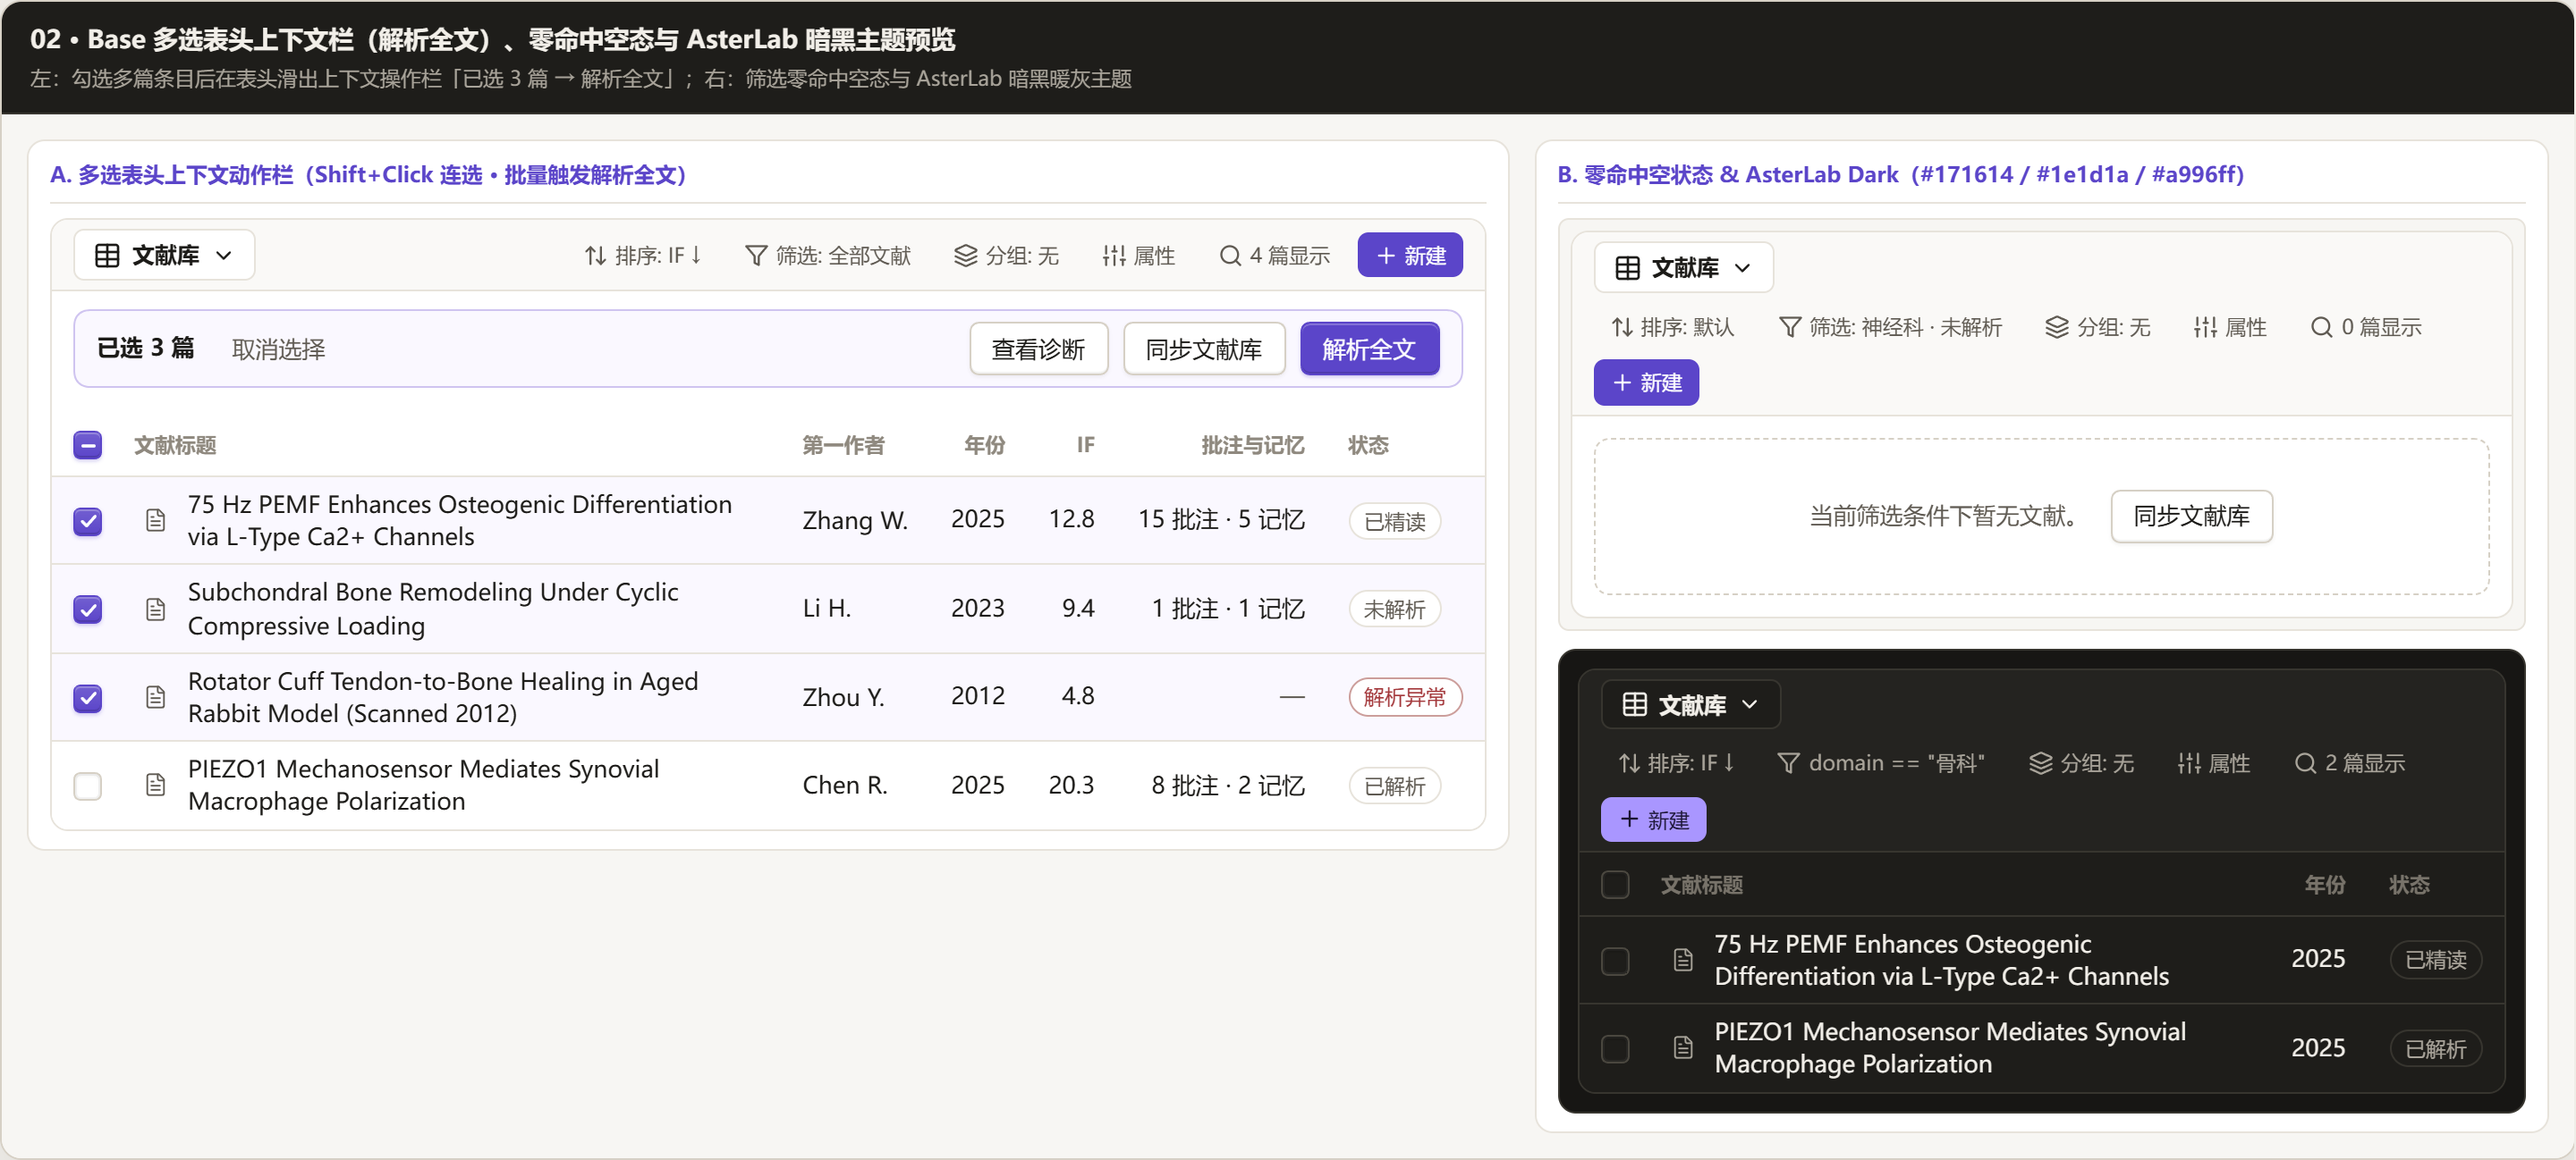
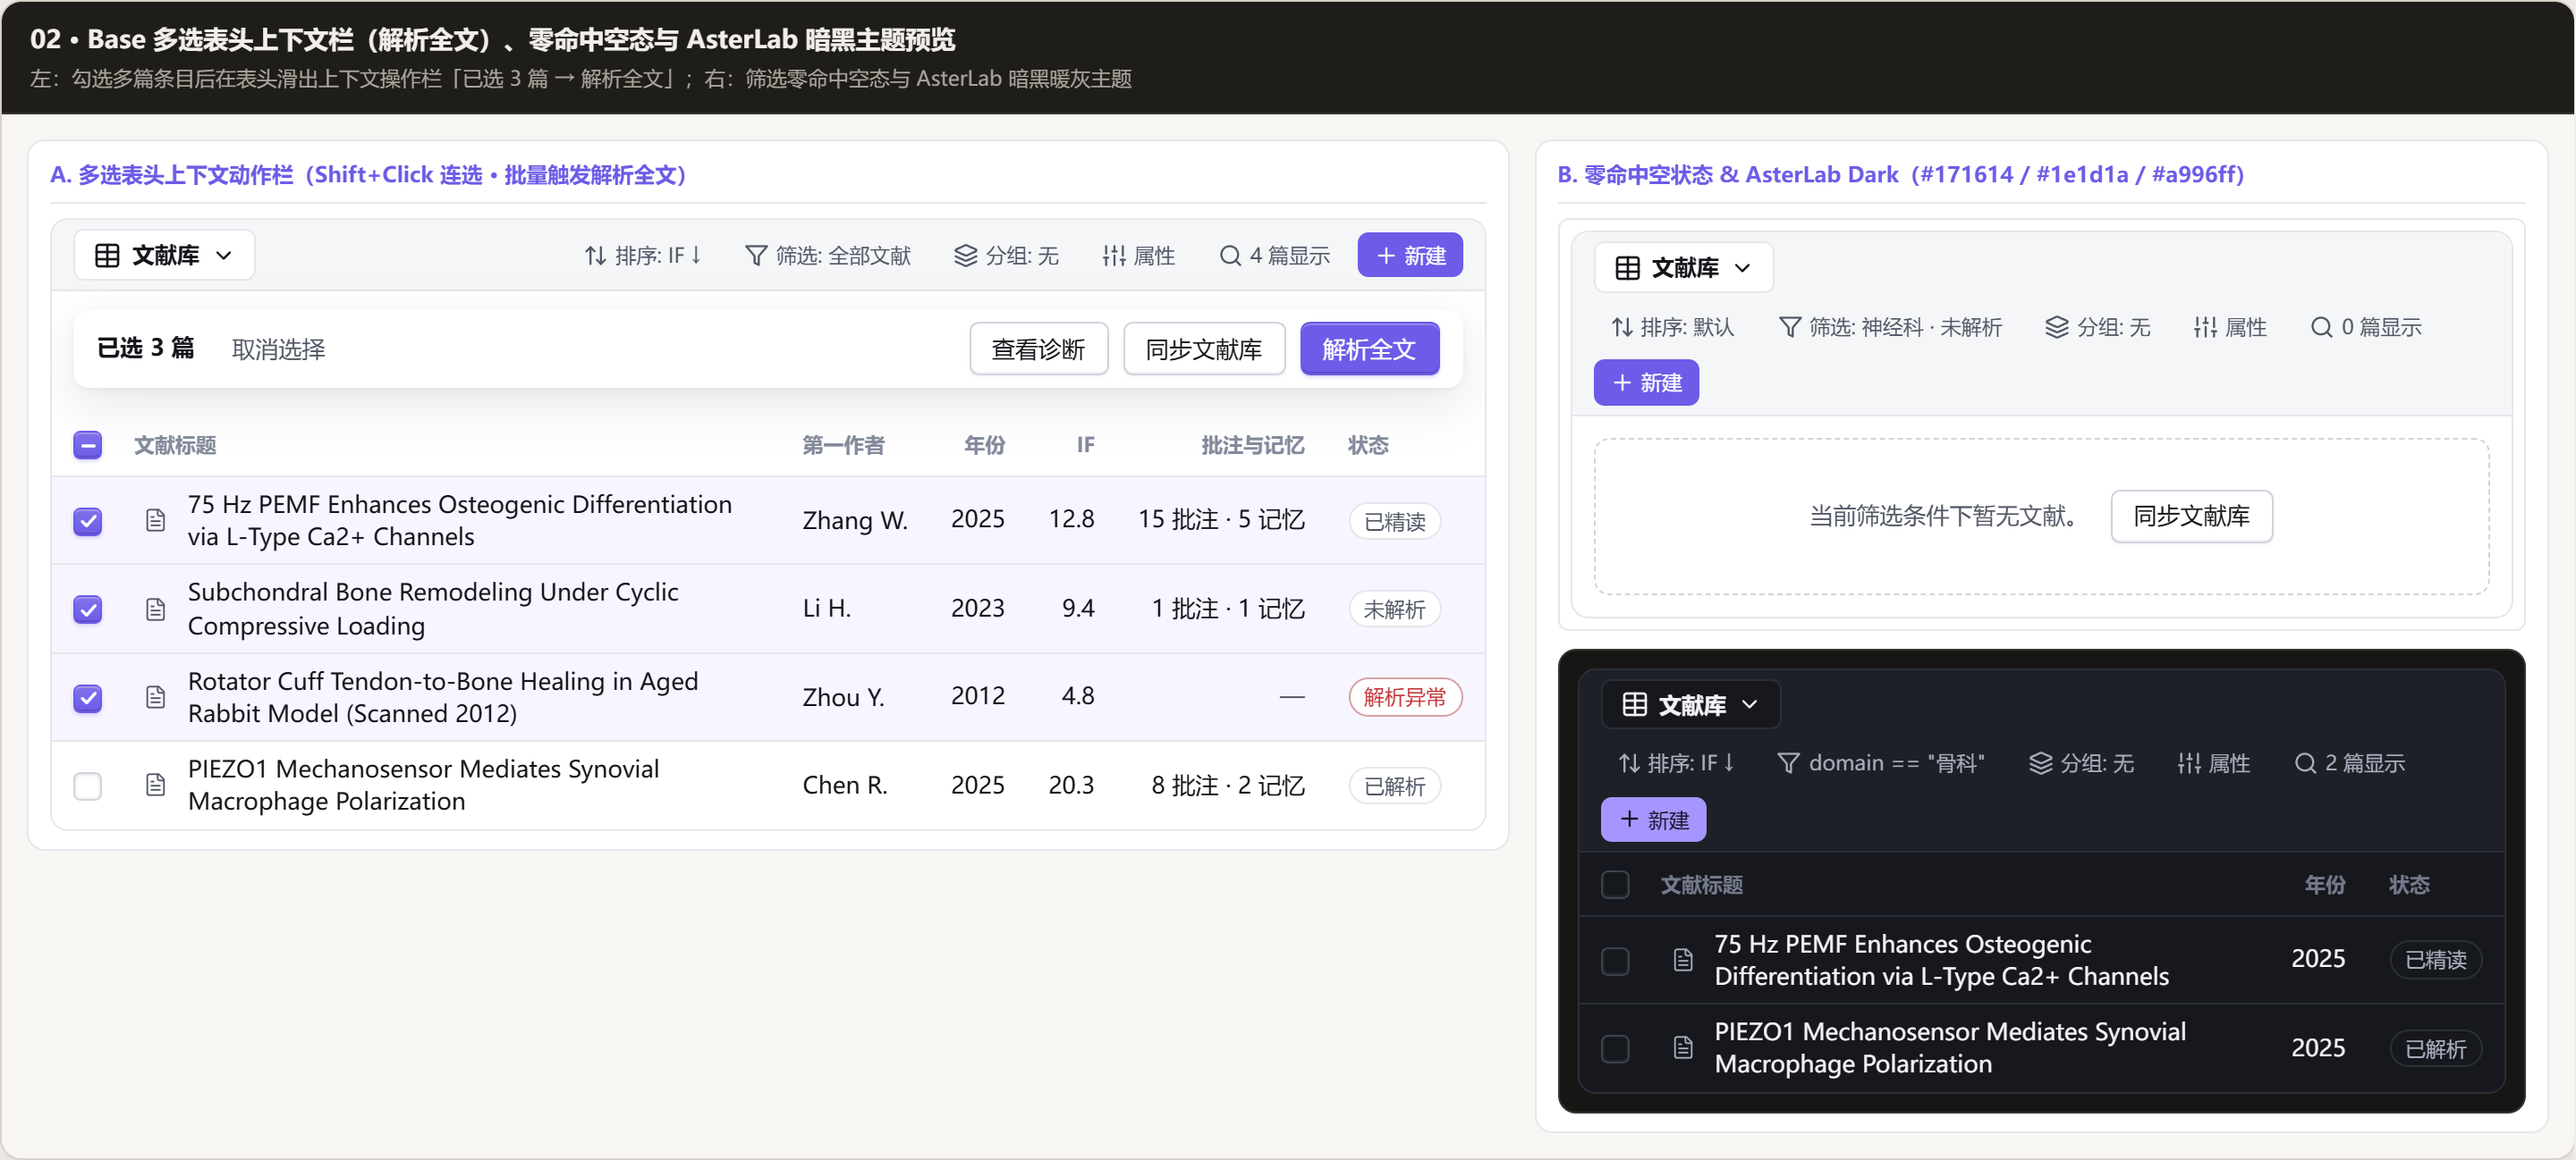
docs(ui): record ADR-017 native radii, Liquid Glass and micro-motion spec and refresh UI screenshots

diff --git a/scripts/dev/render_obsidian_ui_docs.py b/scripts/dev/render_obsidian_ui_docs.py
@@ -195,27 +195,27 @@ def _write_host_html(build_dir: Path, bundle_js: Path) -> Path:
 <style>
   :root {{
     --background-primary: #ffffff;
-    --background-primary-alt: #f7f6f3;
-    --background-secondary: #faf9f7;
-    --background-secondary-alt: #f1efea;
-    --background-modifier-border: #e7e3db;
-    --background-modifier-border-hover: #d6d0c5;
-    --background-modifier-hover: rgba(28, 27, 24, 0.05);
-    --text-normal: #1c1b18;
-    --text-muted: #5f5a52;
-    --text-faint: #8f897f;
-    --interactive-normal: #f7f6f3;
-    --interactive-hover: #efece6;
-    --interactive-accent: #5b45c9;
-    --interactive-accent-hover: #4b37ae;
+    --background-primary-alt: #f5f6f8;
+    --background-secondary: #f5f6f8;
+    --background-secondary-alt: #ededf0;
+    --background-modifier-border: #e5e7ec;
+    --background-modifier-border-hover: #cfd4de;
+    --background-modifier-hover: rgba(20, 21, 26, 0.05);
+    --text-normal: #14151a;
+    --text-muted: #525766;
+    --text-faint: #848b9c;
+    --interactive-normal: #f5f6f8;
+    --interactive-hover: #ededf0;
+    --interactive-accent: #6c5ce7;
+    --interactive-accent-hover: #5848d6;
     --text-on-accent: #ffffff;
     --text-success: #2f7a4f;
     --text-warning: #7a6233;
-    --text-error: #a3373a;
+    --text-error: #c4383b;
     --color-green: #2f7a4f;
-    --color-red: #a3373a;
+    --color-red: #c4383b;
     --color-orange: #7a6233;
-    --color-purple: #5b45c9;
+    --color-purple: #6c5ce7;
     --color-blue: #3b6fd8;
     --font-interface: "Microsoft YaHei UI", "PingFang SC", "Segoe UI", Inter, system-ui, sans-serif;
     --font-monospace-theme: "Cascadia Code", Consolas, ui-monospace, monospace;
@@ -228,6 +228,9 @@ def _write_host_html(build_dir: Path, bundle_js: Path) -> Path:
     --radius-s: 6px;
     --radius-m: 10px;
     --radius-l: 12px;
+    --input-radius: 6px;
+    --button-radius: 6px;
+    --modal-radius: 12px;
     --size-4-1: 4px;
     --size-4-2: 8px;
     --size-4-3: 12px;

diff --git a/docs/OBSIDIAN-UI-AND-BASE-DESIGN.md b/docs/OBSIDIAN-UI-AND-BASE-DESIGN.md
@@ -152,3 +152,13 @@ python scripts/dev/render_obsidian_ui_docs.py
 3. **行内可恢复报错横幅（`.pf-recovery-banner`）**：遇到库未同步、`.base` 目录缺失、PDF/全文定位失败、同步或版本读取异常时，不再只弹一闪而过的 Toast，而是在 Companion 顶部保留带 **原因说明 + 直达修复/重试按钮** 的持久化恢复条。
 4. **单主 CTA 约束 + 零占位后台活动条（`.pf-global-activity-strip`）**：单一视口只保留一个高亮主按钮；通过 `PaperForgePlugin.getActiveBackgroundTasks()` 聚合后台同步/OCR/向量任务，空闲态 `0px` 不占位，运行态实时显示进度并支持一键 DeepLink 跳转对应文献或 OCR 工作台。
 5. **研究认知记忆 ↔ PDF 原位 DeepLink 与窄分栏响应**：研究记忆正文中的页码引用（如 `[p.3, Sec. 3.1]`、`第 5 页`）自动渲染为可点击 `.pf-memory-deeplink` 芯片，直接定位并滚动内置 `PaperForgePdfView`；PDF 视图在 `<= 680px` 分栏宽度下自动切换 `.is-narrow` 折叠换行，保证工具按钮与全文搜索框不被裁切。
+
+---
+
+## 8. Obsidian 原生圆角同步、Liquid Glass 材质与四档物理动效（ADR-017）
+
+对照最新 [AsterLab Handbook · Design System & Liquid Glass](https://docs.asterlab.party/?doc=docs%2Fhandbook%2Fdesign-system.md)，补充插件的宿主原生融合与触感精致度规范：
+
+1. **默认同步 Obsidian 主题与三档原生圆角**：`ui_theme_mode` 默认设为 `obsidian`（自动对齐当前 Obsidian 主题配色及 `--input-radius` / `--button-radius` / `--radius-s/m/l` / `--modal-radius`），同时保留 `asterlab`（纯净白纸 `#ffffff` / 深空曜石 `#111215` + `#6c5ce7`）与 `warm`（经典暖纸 `#f7f6f3` / `#171614`）两套显式预设。
+2. **Liquid Glass 浅透 / 深烟熏双通道材质（严禁 Glass-on-Glass）**：仅在顶栏工具条与悬浮气泡（`.pf-pdf-toolbar`、`.pf-base-selection-bar`、`.pf-pdf-highlight-dropdown`、`.pf-pdf-popover`）开启毛玻璃折射 + 顶部内高光白边；Dark 模式采用 `rgba(20, 22, 28, 0.86/0.92)` 烟熏清透遮罩而非抬灰白雾；侧栏卡片（Anti-XP-Box 去重框）与 Dark 弹窗保持纯实底，设置面板支持一键开关（`ui_liquid_glass`）。
+3. **四档物理微动效与无障碍降级**：覆盖按钮按压微缩 `scale(0.97)`（`100ms`）、选区条与活动条平滑托出（`160ms`）、悬浮下拉面板微弹展开（`220ms`）及空保存/校验拒绝轻晃 `.pf-nudge`（`±5px`），并同时尊重 `prefers-reduced-motion` 与设置开关（`reduce_motion`）。

diff --git a/docs/ARCHITECTURE.md b/docs/ARCHITECTURE.md
@@ -776,6 +776,17 @@ Any final role in `VERIFY_REQUIRED` must have `role_verification_status: ACCEPT`
 
 ---
 
+### ADR-017: Obsidian Native Radii Sync, Liquid Glass v2 (Light Frost / Dark Clear), & Four-Tier Micro-Motion System
+
+**Context**: Following `docs.asterlab.party/docs/handbook/design-system.md` and `liquid-glass.md`, defaulting to fixed warm-paper hex values and static `6/10/12px` radii can look visibly foreign inside custom Obsidian themes (Minimal, Things, Cupertino, Border), while uniform `backdrop-filter` light blurs wash out dark Obsidian panes.
+
+**Decisions**:
+1. **Obsidian Host Bridge Default & Native Radii Inheritance**: Default `ui_theme_mode` to `"obsidian"` (live `--background-*`, `--text-*`, `--interactive-accent`), while upgrading `"asterlab"` to AsterLab's Pure Obsidian preset (`#ffffff` / `#111215`, `#6c5ce7` / `#a596ff`) and preserving `"warm"` (`#f7f6f3` / `#171614`) as an explicit preset. Bind `--pf-radius-control`, `--pf-radius-btn`, `--pf-radius-panel`, and `--pf-radius-dialog` directly to `--input-radius`, `--button-radius`, `--radius-s/m/l`, and `--modal-radius` with `6/10/12px` fallbacks.
+2. **Liquid Glass Light vs Dark Smoked Clear (Anti-Glass-on-Glass)**: Restrict glass translucency (`blur(22px) saturate(185%)` + inner top specular highlight) to floating toolbars, multi-select bars, and popovers; use smoked dark clear masks (`rgba(20, 22, 28, 0.86/0.92)`) in dark mode; keep sidebars, base tables, and modals solid (with `ui_liquid_glass` toggle -> `body.pf-no-glass`).
+3. **Four-Tier Physical Micro-Motions & Accessibility**: Implement `MotionMicro` (`100ms` tactile press `scale(0.97)`), `MotionSnappy` (`160ms` bar float-up & segmented lift), `MotionFluid` (`220ms` spring popover & disclosure animation), and `pf-nudge` (`±5px` shake on validation reject, e.g., empty Living Memory save), respecting both OS `prefers-reduced-motion` and plugin `reduce_motion` (`body.pf-reduce-motion`).
+
+---
+
 ## Glossary
 
 - **Canonical Fact** — a fact whose single authority is a canonical storage location (paperforge.json, formal-library.json, OCR meta/artifacts, paperforge.db, build_state). Never re-derived or duplicated as a competing truth.

diff --git a/paperforge/plugin/DESIGN.md b/paperforge/plugin/DESIGN.md
@@ -145,3 +145,12 @@ Never fail with a fleeting `Notice` alone when user recovery is possible (`Aster
 
 1. **Responsive Split-Pane PDF Toolbar**: When `PaperForgePdfView` sits inside a narrow split pane (`<= 680px`), secondary chrome compacts gracefully so page navigation, zoom, split highlight, and search remain reachable without horizontal clipping.
 2. **Continuous Three-Axis Verification**: `scripts/dev/render_obsidian_ui_docs.py` verifies wide desktop Light, **AsterLab Dark**, **320px narrow Companion sidebar**, and **640px narrow split PDF** layouts with zero uncaught console/page errors.
+
+---
+
+## 11. Obsidian Native Radii Sync, Liquid Glass v2, & Four-Tier Micro-Motions (ADR-017)
+
+1. **Three Theme Presets (`ui_theme_mode`)**: Defaults to `"obsidian"` (live host colors + Obsidian native radii), with `"asterlab"` (AsterLab v2 Pure Obsidian `#ffffff / #111215`, `#6c5ce7 / #a596ff`) and `"warm"` (`#f7f6f3 / #171614`, `#5b45c9`) selectable in Control Center.
+2. **Native Radii Inheritance**: `--pf-radius-control`, `--pf-radius-btn`, `--pf-radius-panel`, and `--pf-radius-dialog` read `--input-radius`, `--button-radius`, `--radius-s/m/l`, and `--modal-radius` with `6 / 10 / 12px` fallbacks.
+3. **Liquid Glass Light vs Dark Clear (No Glass-on-Glass)**: Applied strictly to floating toolbars & popovers (`blur(22px) saturate(185%)` + top specular edge in Light; smoked dark clear `rgba(20, 22, 28, 0.86/0.92)` in Dark; toggleable via `ui_liquid_glass`). Sidebars, Base tables, and Modals remain solid surfaces (Anti-XP-Box).
+4. **Four-Tier Motion + `ReduceMotion`**: `MotionMicro` (`100ms` active `scale(0.97)`), `MotionSnappy` (`160ms` bar entrance & tab lift), `MotionFluid` (`220ms` spring popovers & chevron rotation), and `pf-nudge` (`±5px` validation shake), disabled cleanly via `reduce_motion` (`body.pf-reduce-motion`) or OS `prefers-reduced-motion`.
